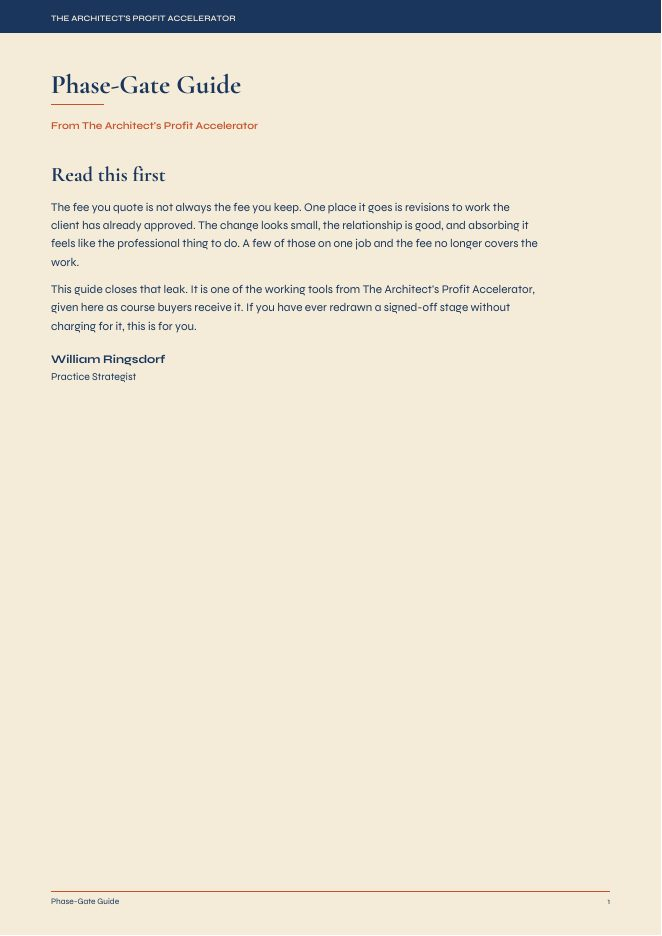
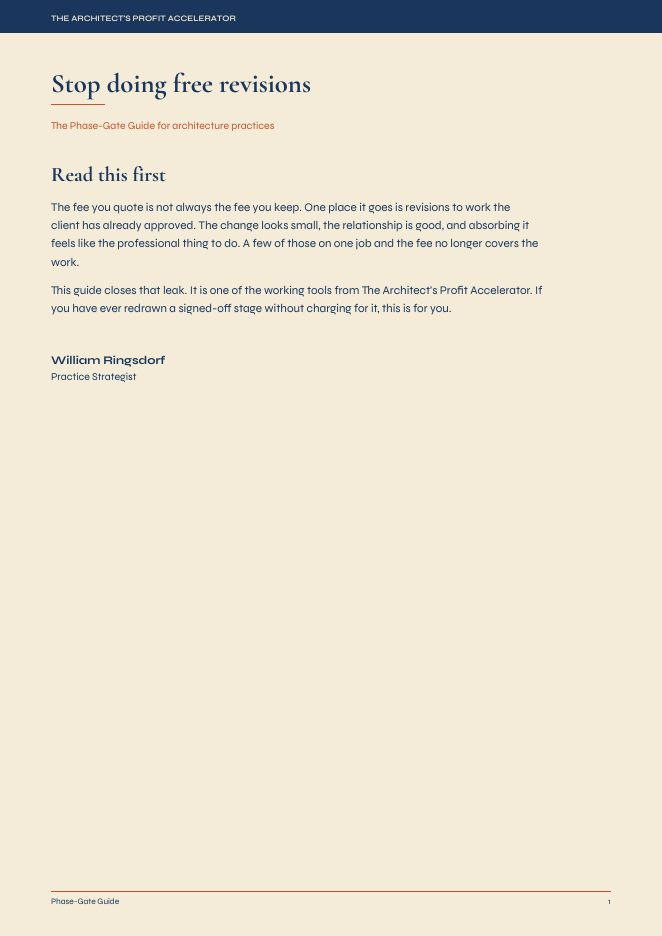
Draft, not for merge without William's approval: Phase-Gate Guide headline, page preview, homepage line and footer link

diff --git a/phase-gate-guide.html b/phase-gate-guide.html
@@ -3,16 +3,16 @@
 <head>
 <meta charset="UTF-8">
 <meta name="viewport" content="width=device-width, initial-scale=1.0">
-<title>Free Phase-Gate Guide · William Ringsdorf</title>
+<title>Stop doing free revisions: the Phase-Gate Guide · William Ringsdorf</title>
 <meta name="description" content="A free four-page Phase-Gate Guide with a change log: a gate at the end of each stage, sign-off in writing, and any later change priced before it is drawn.">
 <link rel="canonical" href="https://williamringsdorf.com/phase-gate-guide">
 <meta property="og:type" content="website">
 <meta property="og:site_name" content="William Ringsdorf">
-<meta property="og:title" content="Free Phase-Gate Guide · William Ringsdorf">
+<meta property="og:title" content="Stop doing free revisions: the Phase-Gate Guide · William Ringsdorf">
 <meta property="og:description" content="A free four-page Phase-Gate Guide with a change log: a gate at the end of each stage, sign-off in writing, and any later change priced before it is drawn.">
 <meta property="og:url" content="https://williamringsdorf.com/phase-gate-guide">
 <meta name="twitter:card" content="summary">
-<meta name="twitter:title" content="Free Phase-Gate Guide · William Ringsdorf">
+<meta name="twitter:title" content="Stop doing free revisions: the Phase-Gate Guide · William Ringsdorf">
 <meta name="twitter:description" content="A free four-page Phase-Gate Guide with a change log: a gate at the end of each stage, sign-off in writing, and any later change priced before it is drawn.">
 <style>
   @font-face{font-family:'Cormorant Garamond';font-style:normal;font-weight:700;font-display:swap;src:url('fonts/cormorant-garamond-latin-700-normal.woff2') format('woff2');}
@@ -165,6 +165,8 @@
   /* Phase-Gate Guide pages */
   .hero-grid{display:grid;grid-template-columns:1.5fr 1fr;gap:64px;align-items:center;}
   @media(max-width:820px){.hero-grid{grid-template-columns:1fr;gap:44px;}}
+  .preview{display:grid;grid-template-columns:1fr 1fr;gap:20px;max-width:760px;margin-top:40px;}
+  .preview img{display:block;width:100%;height:auto;border:1px solid var(--navy);}
   .cover{display:block;width:100%;max-width:330px;height:auto;border:2px solid var(--cream);}
   .points{list-style:none;max-width:640px;margin-bottom:44px;}
   .points li{padding:14px 0;border-top:2px solid rgba(244,236,216,0.25);font-size:19px;font-weight:500;}
@@ -197,9 +199,9 @@
       <div class="hero-grid">
         <div>
           <p class="eyebrow">Free Phase-Gate Guide</p>
-          <h1>The fee you quote is not always <span class="marked">the fee you keep
-            <svg viewBox="0 0 300 18" preserveAspectRatio="none" aria-hidden="true"><path d="M4 12 C 60 4, 140 16, 296 8" fill="none" stroke="#2A9D8F" stroke-width="6" stroke-linecap="round" opacity="0.4"/></svg></span></h1>
-          <p class="sub">One place it goes is revisions to work the client has already approved. The Phase-Gate Guide closes that leak. Four pages, with a change log. Free, sent to your inbox.</p>
+          <h1>Stop doing <span class="marked">free revisions
+            <svg viewBox="0 0 300 18" preserveAspectRatio="none" aria-hidden="true"><path d="M4 12 C 60 4, 140 16, 296 8" fill="none" stroke="#2A9D8F" stroke-width="6" stroke-linecap="round" opacity="0.4"/></svg></span> after the client has signed off</h1>
+          <p class="sub">The Phase-Gate Guide is four working pages for UK architecture practices: sign off each stage, put dates on the client's decisions, and price a change before it becomes unpaid work. Free, sent to your inbox.</p>
           <ul class="points">
             <li>A gate at the end of each stage</li>
             <li>Sign-off in writing</li>
@@ -209,7 +211,7 @@
             <a class="btn" href="#get-guide">Send me the guide</a>
           </div>
         </div>
-        <img class="cover" src="img/phase-gate-guide-cover.jpg" width="662" height="936" alt="First page of the Phase-Gate Guide, from The Architect's Profit Accelerator">
+        <img class="cover" src="img/phase-gate-guide-cover.jpg" width="662" height="936" alt="First page of the Phase-Gate Guide, headed Stop doing free revisions">
       </div>
     </div>
   </section>
@@ -243,7 +245,11 @@
         <li><span class="n">3</span><div><h3>Decisions and Changes</h3><p>A schedule of the decisions your client has to make and the dates they are needed by, then four steps for a change that arrives after sign-off.</p></div></li>
         <li><span class="n">4</span><div><h3>Change Log</h3><p>A running record of every change request: date, details, estimated time, agreed extra fee and invoice status.</p></div></li>
       </ol>
-      <p style="margin-top:34px;">The PDF has form fields, so you can fill it in on screen or print it.</p>
+      <div class="preview">
+        <img src="img/phase-gate-guide-page-2.jpg" width="662" height="936" loading="lazy" alt="Page 2 of the guide: five steps for running a gate and a table of eight phases to fill in">
+        <img src="img/phase-gate-guide-page-4.jpg" width="662" height="936" loading="lazy" alt="Page 4 of the guide: the Change Log, a table for date, details, estimated time, agreed extra fee and invoice status">
+      </div>
+      <p style="margin-top:34px;">Pages 2 and 4. The PDF has form fields, so you can fill it in on screen or print it, and use it on the job you are running now.</p>
     </div>
   </section>
 </div>
@@ -255,7 +261,7 @@
         <div>
           <h2>Who wrote it</h2>
           <p class="bigp">William Ringsdorf, Practice Strategist. 30 years in UK and German architectural practice, 14 of them running his own.</p>
-          <p>The guide is one of the working tools from <span class="accent">The Architect's Profit Accelerator</span>, given here as course buyers receive it.</p>
+          <p>The guide is one of the working tools from <span class="accent">The Architect's Profit Accelerator</span>.</p>
         </div>
       </div>
     </div>
@@ -269,7 +275,7 @@
         <details><summary>Does it cost anything?</summary><p>No. The guide goes to the email address you give, and no card details are asked for.</p></details>
         <details><summary>Who is it for?</summary><p>Principals of UK architecture practices who agree fees by stage. If you have ever redrawn a signed-off stage without charging for it, this is for you.</p></details>
         <details><summary>What will you send me afterwards?</summary><p>The guide, then three short follow-up emails over nine days, which include an offer of the PRICE Profit Diagnostic. Every email carries an unsubscribe link.</p></details>
-        <details><summary>Is everything in the four pages?</summary><p>Nearly. One step refers to the Change Request Script Pack, which is part of the course and is not included. The guide and the Change Log work without it.</p></details>
+        <details><summary>Is everything in the four pages?</summary><p>Yes. The four pages, with the Change Log, work on their own. The course has further tools for the same job, and none of them is needed to use this one.</p></details>
         <details><summary>Does it replace my appointment?</summary><p>No. It is a working tool, not a contract and not legal advice. The phases and gates go into your appointment in your own terms.</p></details>
       </div>
     </div>

diff --git a/index.html b/index.html
@@ -246,6 +246,7 @@
         <a class="textlink" href="contact.html">Enquire</a>
       </div>
       <p class="downladder">Not at this stage yet? The <a href="https://designprofit.co.uk/fee-audit">£37 audit</a> and the <a href="https://designprofit.co.uk/apa">free training</a> are built for where you are.</p>
+      <p class="downladder" style="margin-top:14px;">Or start with one leak: the free <a href="phase-gate-guide.html">Phase-Gate Guide</a>, four pages for signing off each stage and pricing a change before you draw it.</p>
     </div>
   </section>
 </div>
@@ -281,6 +282,7 @@
             <li><a href="https://designprofit.co.uk/apa">Free 20-minute training</a></li>
             <li><a href="https://designprofit.co.uk/apa">The Architect's Profit Accelerator</a></li>
             <li><a href="profit-guide.html">Free Profit Guide</a></li>
+            <li><a href="phase-gate-guide.html">Free Phase-Gate Guide</a></li>
           </ul>
         </div>
         <div>
